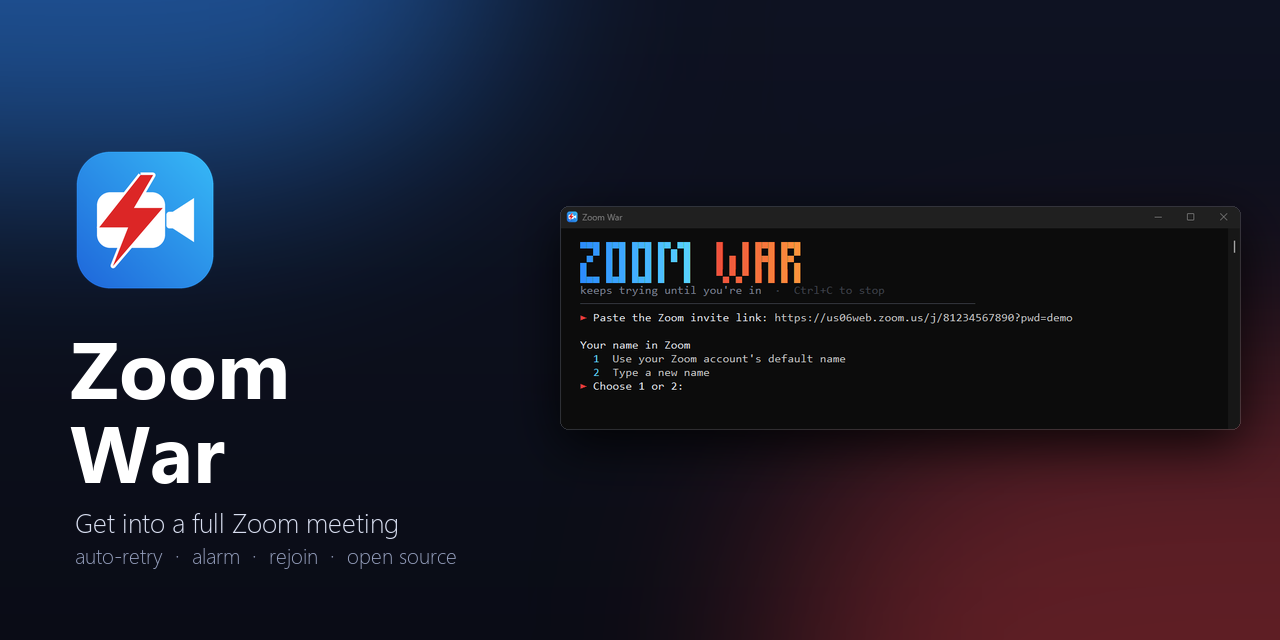
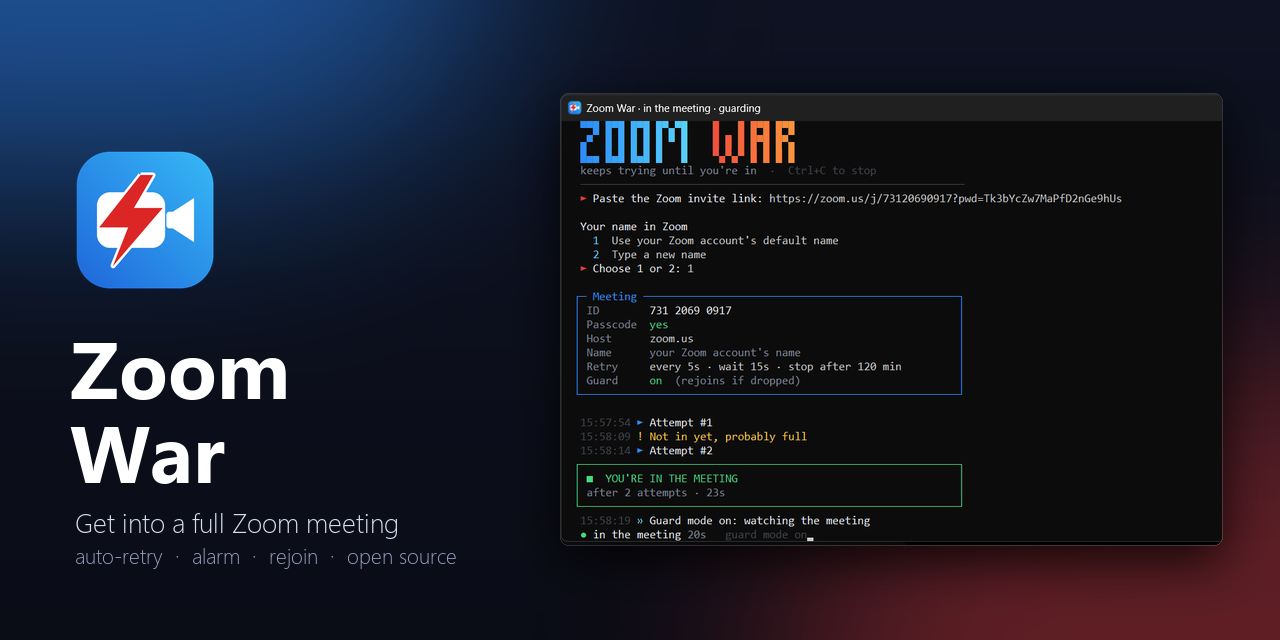
Social card with the new screenshot (full run, made-up link and ID)

Changed region(s): [[0.4375, 0.125, 0.9375, 0.625], [0.4375, 0.5938, 0.9688, 0.9062], [0.9062, 0.3125, 0.9375, 0.3438]]

diff --git a/docs/index.html b/docs/index.html
@@ -14,7 +14,7 @@
 <meta property="og:title" content="Zoom War – join a full Zoom meeting the moment a slot opens">
 <meta property="og:description" content="Keeps trying to join a full Zoom meeting until a slot opens, then alarms you. Free and open source, for Windows.">
 <meta property="og:url" content="https://abdani.github.io/Zoom-War/">
-<meta property="og:image" content="https://abdani.github.io/Zoom-War/images/social-preview.png?v=1">
+<meta property="og:image" content="https://abdani.github.io/Zoom-War/images/social-preview.png?v=2">
 <meta property="og:image:width" content="1280"><meta property="og:image:height" content="640">
 <meta name="twitter:card" content="summary_large_image">
 <meta name="theme-color" content="#2d8cff">
@@ -28,7 +28,7 @@
  "description": "Keeps trying to join a full Zoom meeting until a slot opens, clicks through the preview with your mic and camera off, alarms you when you are in and rejoins if you get dropped.",
  "offers": { "@type": "Offer", "price": "0", "priceCurrency": "USD" },
  "downloadUrl": "https://github.com/abdani/Zoom-War/archive/refs/heads/main.zip",
- "image": "https://abdani.github.io/Zoom-War/images/social-preview.png?v=1",
+ "image": "https://abdani.github.io/Zoom-War/images/social-preview.png?v=2",
  "screenshot": "https://abdani.github.io/Zoom-War/images/console.png?v=3",
  "author": { "@type": "Person", "name": "Dani Abdani", "url": "https://abdani.github.io/" },
  "license": "https://opensource.org/licenses/MIT",

diff --git a/tools/social.py b/tools/social.py
@@ -1,6 +1,6 @@
 """1280x640 social card (GitHub profile, abdani.github.io, link previews) in the same layout as the
 other apps: icon + name left, the app's window with a soft shadow right. Uses docs/images/console.png
-from tools/capture.py.   usage (from the repo root): python tools/social.py -> docs/images/social-preview.png"""
+(the README screenshot).   usage (from the repo root): python tools/social.py -> docs/images/social-preview.png"""
 import os
 from PIL import Image, ImageDraw, ImageFilter, ImageFont
 
@@ -58,7 +58,8 @@ def social():
     d.text((70, 396), "War", font=title, fill=(255, 255, 255))
     d.text((75, 503), "Get into a full Zoom meeting", font=font("segoeuil.ttf", 27), fill=(216, 222, 240))
     d.text((75, 541), "auto-retry  ·  alarm  ·  rejoin  ·  open source", font=font("segoeuil.ttf", 21), fill=(150, 160, 190))
-    place(c, window("console.png", 0.72), 560, 206)
+    win = window("console.png", 0.7)
+    place(c, win, 560, (H - win.height) // 2)
     out = os.path.join(IMG, "social-preview.png")
     c.convert("RGB").save(out, optimize=True)
     print(out, c.size, os.path.getsize(out) // 1024, "KB")
